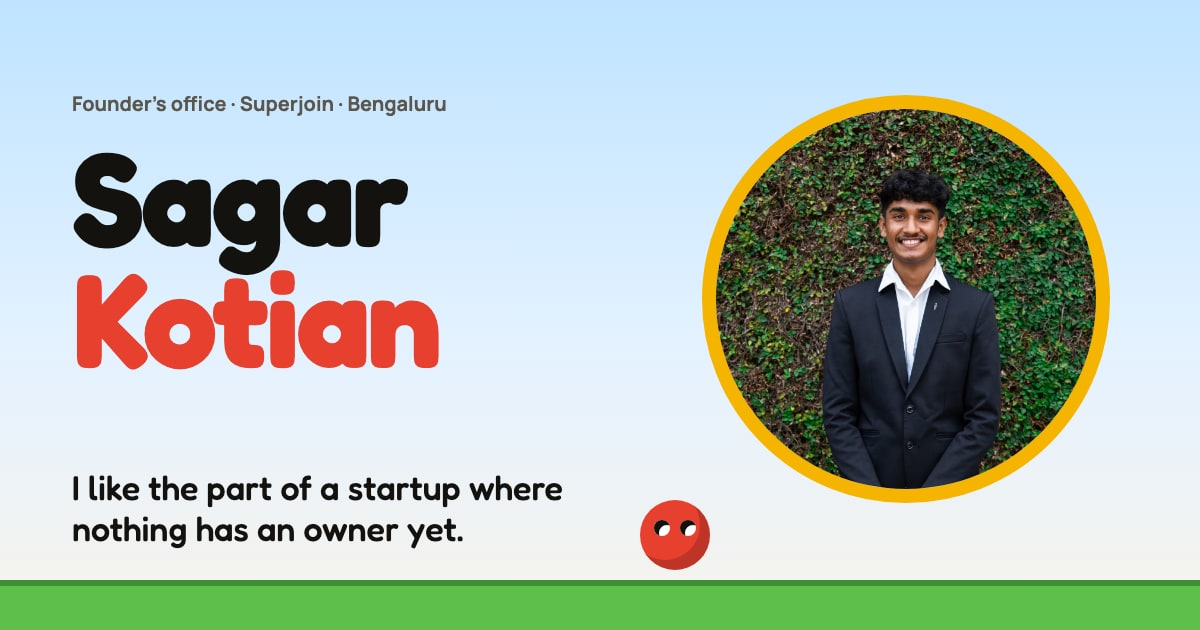
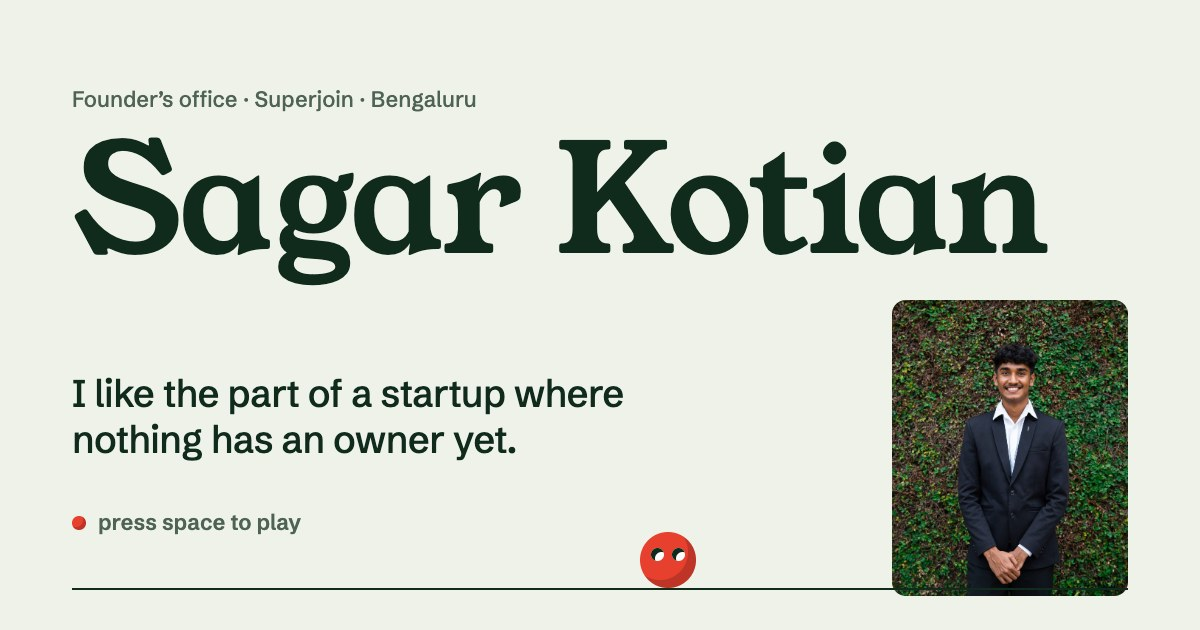
Brief update: Work so far, guestbook removed, the game moves to just before Say hi
The Play chapter gets the same rule and running head as the others, with the sky window as a
full-width figure sized to fit under the rule in one viewport, so the hero hint and the nav link
land on the whole window. Guestbook section, module, API, copy, styles and @upstash/redis are gone.

diff --git a/index.html b/index.html
@@ -50,7 +50,7 @@
       <span>Sagar</span>
     </a>
     <nav class="nav__links" aria-label="Sections">
-      <a href="#play">Play</a><a href="#work">Work</a><a href="#built">Built</a><a href="#about">About</a><a href="#guestbook">Guestbook</a>
+      <a href="#play">Play</a><a href="#work">Work</a><a href="#built">Built</a><a href="#about">About</a>
     </nav>
   </header>
 
@@ -78,48 +78,11 @@
       </div>
     </section>
 
-    <section class="game" id="play" aria-labelledby="game-title">
-      <div class="game__stage" id="game-stage" style="background:#5EC5F5">
-        <canvas class="game__canvas" id="game-canvas" tabindex="0" aria-label="Bounce, a ball platformer in a sky forest. Arrow keys to roll, space to jump."></canvas>
-        <div class="game__hud" id="hud" aria-live="off">
-          <span class="hud__eggs"><svg viewBox="0 0 24 30" aria-hidden="true"><path d="M12 2c5 0 9.5 8.5 9.5 15.5S17.5 28 12 28 2.5 24.5 2.5 17.5 7 2 12 2z" fill="#F6C15A" stroke="#8A5A2B" stroke-width="2"/><path d="M14 6c4 3 6 9 5.5 14-1 5-4 7-7 7 5-2 6-8 5-13-1-4-2-6-3.5-8z" fill="#DE9A3C"/><ellipse cx="8.5" cy="10" rx="2.2" ry="3.5" transform="rotate(-20 8.5 10)" fill="#FDEBB9"/></svg><b id="hud-eggs">0/0</b></span>
-          <span class="hud__time"><b id="hud-time">0:00</b><svg class="hud__clock" viewBox="0 0 24 24" aria-hidden="true"><circle cx="12" cy="12" r="10" fill="#fff" stroke="#102A1B" stroke-width="2"/><path d="M12 6v6l4 2" fill="none" stroke="#102A1B" stroke-width="2.2" stroke-linecap="round"/></svg></span>
-        </div>
-        <div class="game__touch" id="game-touch" aria-hidden="true">
-          <div class="touch__pad">
-            <button type="button" data-key="left" aria-label="Roll left"><svg viewBox="0 0 20 20" aria-hidden="true"><path d="M14 3L5 10l9 7z" fill="currentColor"/></svg></button>
-            <button type="button" data-key="right" aria-label="Roll right"><svg viewBox="0 0 20 20" aria-hidden="true"><path d="M6 3l9 7-9 7z" fill="currentColor"/></svg></button>
-          </div>
-          <button type="button" class="touch__jump" data-key="jump" aria-label="Jump"><i></i></button>
-        </div>
-        <div class="game__overlay" id="game-start">
-          <div class="plate">
-            <p class="chapter__head">Play</p>
-            <h2 class="game__title" id="game-title"></h2>
-            <p class="game__intro" id="game-intro"></p>
-            <button class="key key--ball key--big" id="game-play" type="button" data-magnetic data-cursor="play">Start</button>
-            <p class="game__controls" id="game-controls"></p>
-          </div>
-        </div>
-        <div class="game__overlay" id="game-end" hidden>
-          <div class="plate">
-            <p class="chapter__head" id="game-end-label"></p>
-            <h2 class="game__title game__title--sm" id="game-end-title"></h2>
-            <p class="game__intro" id="game-end-line"></p>
-            <div class="game__actions">
-              <button class="key key--ball" id="game-again" type="button" data-magnetic data-cursor="play">Play again</button>
-            </div>
-          </div>
-        </div>
-        <button class="game__leave" id="game-leave" type="button" hidden aria-label="Leave the game (Esc)"><svg viewBox="0 0 24 24" aria-hidden="true"><path d="M6 6l12 12M18 6L6 18" fill="none" stroke="currentColor" stroke-width="3" stroke-linecap="round"/></svg></button>
-      </div>
-    </section>
-
     <section class="chapter work" id="work" aria-labelledby="work-h">
       <div class="wrap chapter__grid">
         <p class="chapter__head">Work</p>
         <div class="chapter__body">
-          <h2 class="h2" id="work-h">Four startups,<br>one degree.</h2>
+          <h2 class="h2" id="work-h">Work so far.</h2>
           <div class="levelmap" id="levelmap">
             <svg class="levelmap__svg" viewBox="0 0 1200 260" preserveAspectRatio="none" aria-hidden="true">
               <path class="levelmap__hills" d="M0,260 L0,200 C120,120 220,120 340,200 C440,270 560,270 660,190 C760,110 860,110 960,190 C1060,255 1140,255 1200,215 L1200,260 Z"/>
@@ -165,27 +128,42 @@
       </dialog>
     </section>
 
-    <section class="chapter guestbook" id="guestbook" aria-labelledby="guestbook-h">
+    <section class="chapter game" id="play" aria-labelledby="game-title">
       <div class="wrap chapter__grid">
-        <p class="chapter__head">Guestbook</p>
-        <div class="chapter__body">
-          <div class="book">
-            <div class="book__write">
-              <h2 class="book__title" id="guestbook-h">Guestbook</h2>
-              <p class="book__lead" id="guestbook-lead"></p>
-              <form class="chat" id="note-form" autocomplete="off" novalidate>
-                <textarea class="chat__input" id="note-text" name="text" rows="1" maxlength="280" required aria-label="Your note"></textarea>
-                <input class="note-form__hp" name="website" type="text" tabindex="-1" autocomplete="off" aria-hidden="true" />
-                <button class="chat__send" id="note-submit" type="submit" aria-label="Post your note"><svg viewBox="0 0 24 24" aria-hidden="true"><path d="M4 12h13M12 5l7 7-7 7" fill="none" stroke="currentColor" stroke-width="3" stroke-linecap="round" stroke-linejoin="round"/></svg></button>
-              </form>
-              <p class="book__foot">
-                <span class="book__eggs"><svg viewBox="0 0 24 30" aria-hidden="true"><path d="M12 2c5 0 9.5 8.5 9.5 15.5S17.5 28 12 28 2.5 24.5 2.5 17.5 7 2 12 2z" fill="#F6C15A" stroke="#8A5A2B" stroke-width="2"/><ellipse cx="8.5" cy="10" rx="2.2" ry="3.5" transform="rotate(-20 8.5 10)" fill="#FDEBB9"/></svg><span id="note-count"></span></span>
-                <span class="book__status" id="note-status" role="status" aria-live="polite"></span>
-                <span class="book__chars" id="note-count-chars" aria-hidden="true">0/280</span>
-              </p>
-            </div>
-            <ol class="entries" id="notes" data-lenis-prevent tabindex="0" aria-label="Notes"></ol>
+        <p class="chapter__head">Play</p>
+        <div class="game__stage" id="game-stage" style="background:#5EC5F5">
+          <canvas class="game__canvas" id="game-canvas" tabindex="0" aria-label="Bounce, a ball platformer in a sky forest. Arrow keys to roll, space to jump."></canvas>
+          <div class="game__hud" id="hud" aria-live="off">
+            <span class="hud__eggs"><svg viewBox="0 0 24 30" aria-hidden="true"><path d="M12 2c5 0 9.5 8.5 9.5 15.5S17.5 28 12 28 2.5 24.5 2.5 17.5 7 2 12 2z" fill="#F6C15A" stroke="#8A5A2B" stroke-width="2"/><path d="M14 6c4 3 6 9 5.5 14-1 5-4 7-7 7 5-2 6-8 5-13-1-4-2-6-3.5-8z" fill="#DE9A3C"/><ellipse cx="8.5" cy="10" rx="2.2" ry="3.5" transform="rotate(-20 8.5 10)" fill="#FDEBB9"/></svg><b id="hud-eggs">0/0</b></span>
+            <span class="hud__time"><b id="hud-time">0:00</b><svg class="hud__clock" viewBox="0 0 24 24" aria-hidden="true"><circle cx="12" cy="12" r="10" fill="#fff" stroke="#102A1B" stroke-width="2"/><path d="M12 6v6l4 2" fill="none" stroke="#102A1B" stroke-width="2.2" stroke-linecap="round"/></svg></span>
           </div>
+          <div class="game__touch" id="game-touch" aria-hidden="true">
+            <div class="touch__pad">
+              <button type="button" data-key="left" aria-label="Roll left"><svg viewBox="0 0 20 20" aria-hidden="true"><path d="M14 3L5 10l9 7z" fill="currentColor"/></svg></button>
+              <button type="button" data-key="right" aria-label="Roll right"><svg viewBox="0 0 20 20" aria-hidden="true"><path d="M6 3l9 7-9 7z" fill="currentColor"/></svg></button>
+            </div>
+            <button type="button" class="touch__jump" data-key="jump" aria-label="Jump"><i></i></button>
+          </div>
+          <div class="game__overlay" id="game-start">
+            <div class="plate">
+              <p class="chapter__head">Play</p>
+              <h2 class="game__title" id="game-title"></h2>
+              <p class="game__intro" id="game-intro"></p>
+              <button class="key key--ball key--big" id="game-play" type="button" data-magnetic data-cursor="play">Start</button>
+              <p class="game__controls" id="game-controls"></p>
+            </div>
+          </div>
+          <div class="game__overlay" id="game-end" hidden>
+            <div class="plate">
+              <p class="chapter__head" id="game-end-label"></p>
+              <h2 class="game__title game__title--sm" id="game-end-title"></h2>
+              <p class="game__intro" id="game-end-line"></p>
+              <div class="game__actions">
+                <button class="key key--ball" id="game-again" type="button" data-magnetic data-cursor="play">Play again</button>
+              </div>
+            </div>
+          </div>
+          <button class="game__leave" id="game-leave" type="button" hidden aria-label="Leave the game (Esc)"><svg viewBox="0 0 24 24" aria-hidden="true"><path d="M6 6l12 12M18 6L6 18" fill="none" stroke="currentColor" stroke-width="3" stroke-linecap="round"/></svg></button>
         </div>
       </div>
     </section>

diff --git a/src/styles/sections.css b/src/styles/sections.css
@@ -1,8 +1,9 @@
-/* ---------- play: the sky window ---------- */
-.game { --game-pad: clamp(20px, 3vw, 40px); padding-block: var(--game-pad); }
+/* ---------- play: the sky window, near the end of the page ---------- */
+.game { --game-top: clamp(80px, 6vw, 96px); }
+.game .chapter__head { position: static; }
 .game__stage {
-  position: relative; width: min(100% - 2 * var(--gutter), var(--w-max)); margin-inline: auto;
-  height: calc(100svh - 2 * var(--game-pad)); min-height: 520px; max-height: 900px; overflow: hidden; border-radius: var(--r-l); background: #5EC5F5;
+  position: relative; grid-column: 1 / -1; width: 100%;
+  height: calc(100svh - var(--game-top)); min-height: 520px; max-height: 900px; overflow: hidden; border-radius: var(--r-l); background: #5EC5F5;
 }
 .game__stage::after { content: ''; position: absolute; inset: 0; border-radius: inherit; box-shadow: inset 0 0 0 2px var(--forest); pointer-events: none; z-index: 5; }
 .game__canvas { position: absolute; inset: 0; width: 100%; height: 100%; touch-action: none; outline: none; }
@@ -128,38 +129,12 @@ html[data-motion="reduced"] .mark--swipe { background-size: 100% 100%; transitio
 .lightbox__cap { font-style: italic; text-align: center; flex: 1; color: var(--forest); }
 .lightbox__nav { width: 40px; height: 40px; border-radius: 50%; background: var(--forest); color: var(--leaf); font-size: 26px; line-height: 1; display: grid; place-items: center; flex: none; }
 .lightbox__nav:hover { background: var(--ball); color: #fff; }
-.lightbox__close { position: absolute; top: -14px; right: -14px; width: 36px; height: 36px; border-radius: 50%; background: var(--ball); color: #fff; font-size: 22px; display: grid; place-items: center; box-shadow: 0 3px 0 0 var(--ball-2); }
+.lightbox__close { position: absolute; top: 22px; right: 22px; width: 36px; height: 36px; border-radius: 50%; background: var(--ball); color: #fff; font-size: 22px; display: grid; place-items: center; box-shadow: 0 3px 0 0 var(--ball-2); }
 @media (max-width: 899px) {
   .about__grid { grid-template-columns: 1fr; }
   .wall { grid-template-columns: 1fr 1fr; gap: 18px 12px; }
   .print--wide { grid-column: 1 / -1; }
 }
-
-/* ---------- guestbook: a white page on the sheet ---------- */
-.book { margin-top: clamp(24px, 3vw, 40px); background: var(--paper); border: 2px solid var(--forest); border-radius: var(--r-l); padding: clamp(20px, 3.5vw, 40px); display: grid; grid-template-columns: minmax(0, 0.9fr) minmax(0, 1.1fr); gap: clamp(24px, 4vw, 56px); box-shadow: 8px 8px 0 0 var(--leaf-2); }
-.book__title { font-family: var(--font-display); font-weight: 400; font-size: clamp(2rem, 1.6rem + 2vw, 3.4rem); line-height: 0.98; }
-.book__lead { font-style: italic; color: var(--moss); margin-top: 10px; font-size: var(--step-1); }
-.entries { max-height: 400px; overflow: auto; scrollbar-width: thin; scrollbar-color: var(--line) transparent; padding-right: 8px; border-top: 2px solid var(--forest); }
-.entry { padding: 13px 0 14px; border-bottom: 1px solid var(--line); }
-.entry__meta { display: flex; align-items: baseline; gap: 10px; font-size: var(--step--1); color: var(--moss); font-weight: 600; }
-.entry__n { color: var(--ball-2); font-weight: 800; }
-.entry__text { margin-top: 3px; overflow-wrap: anywhere; }
-.entry--empty { color: var(--moss); font-style: italic; padding: 24px 0; }
-.chat { display: flex; align-items: flex-end; gap: 10px; margin-top: 22px; }
-.chat__input { flex: 1; display: block; font: inherit; font-size: var(--step-0); line-height: 1.4; color: var(--forest); background: var(--leaf); border: 2px solid var(--forest); border-radius: 24px; padding: 11px 18px; min-height: 48px; resize: none; overflow: hidden; }
-.chat__input::placeholder { color: var(--moss); }
-.chat__input:focus { outline: none; box-shadow: 0 0 0 4px rgba(245, 180, 0, 0.45); }
-.chat__send { width: 48px; height: 48px; flex: none; border-radius: 50%; background: var(--ball); color: #fff; display: grid; place-items: center; box-shadow: 0 4px 0 0 var(--ball-2); transition: transform 0.15s, box-shadow 0.15s; }
-.chat__send:hover { background: #F04A38; }
-.chat__send:active { transform: translateY(3px); box-shadow: 0 1px 0 0 var(--ball-2); }
-.chat__send svg { width: 20px; height: 20px; }
-.note-form__hp { position: absolute; left: -9999px; width: 1px; height: 1px; opacity: 0; }
-.book__foot { display: flex; align-items: center; gap: 12px; margin-top: 12px; font-size: var(--step--1); color: var(--moss); font-weight: 600; }
-.book__eggs { display: inline-flex; align-items: center; gap: 7px; }
-.book__eggs svg { width: 15px; height: 19px; }
-.book__status { flex: 1; color: var(--ball-2); }
-.book__chars { font-variant-numeric: tabular-nums; }
-@media (max-width: 899px) { .book { grid-template-columns: 1fr; box-shadow: 6px 6px 0 0 var(--leaf-2); } .entries { max-height: 320px; } .book__foot { flex-wrap: wrap; } }
 
 /* ---------- say hi: the forest floor ---------- */
 .sayhi { background: var(--deep); color: var(--on-deep); padding-block: var(--section-y) 0; }

diff --git a/og.html b/og.html
@@ -1,21 +1,23 @@
 <!doctype html><html><head><meta charset="utf-8"><link rel="stylesheet" href="/src/styles/tokens.css"><link rel="stylesheet" href="/src/styles/fonts.css">
 <style>
-html,body{margin:0;width:1200px;height:630px;overflow:hidden;font-family:var(--font-body);color:#14120F}
-.card{position:relative;width:1200px;height:630px;padding:70px 72px;box-sizing:border-box;background:linear-gradient(180deg,#BFE3FF 0%,#E4F2FF 55%,#F7F3EC 100%)}
-.meta{font-weight:700;font-size:20px;color:#5C574E}
-.name{margin-top:18px;font-family:var(--font-display);font-size:132px;line-height:.92;letter-spacing:-.02em;font-weight:700}
-.name b{display:block;font-weight:700;color:#E8402F}
-.tag{margin-top:30px;font-family:var(--font-display);font-weight:500;font-size:34px;line-height:1.2;max-width:520px}
-.hoop{position:absolute;right:90px;top:95px;width:380px;height:380px;border-radius:50%;overflow:hidden;border:14px solid #F5B400;box-shadow:inset 0 0 0 6px #fff,inset 0 -10px 0 #C98F00;background:#EFE9DF}
-.hoop img{width:100%;height:100%;object-fit:cover;object-position:50% 10%}
-.ball{position:absolute;left:640px;bottom:60px;width:70px;height:70px;border-radius:50%;background:#E8402F;box-shadow:inset -10px -10px 0 rgba(0,0,0,.18)}
-.ball i{position:absolute;top:20px;width:16px;height:16px;border-radius:50%;background:#fff;box-shadow:inset 5px 5px 0 #14120F}
-.ball i:first-child{left:14px}.ball i:last-child{right:14px}
-.hill{position:absolute;left:0;right:0;bottom:0;height:44px;background:#5FBF4B;border-top:6px solid #3E8F33}
+html,body{margin:0;width:1200px;height:630px;overflow:hidden;font-family:var(--font-text);color:var(--forest);background:var(--leaf)}
+.card{position:relative;width:1200px;height:630px;padding:64px 72px;box-sizing:border-box}
+.meta{font-weight:500;font-size:22px;color:var(--moss)}
+.name{margin-top:14px;font-family:var(--font-display);font-weight:400;font-size:150px;line-height:.9;letter-spacing:-.015em;white-space:nowrap}
+.tag{margin-top:44px;font-weight:500;font-size:38px;line-height:1.22;letter-spacing:-.015em;max-width:560px}
+.hint{position:absolute;left:72px;bottom:72px;display:flex;align-items:center;gap:12px;font-weight:600;font-size:22px;color:var(--moss)}
+.hint i{width:14px;height:14px;border-radius:50%;background:var(--ball);box-shadow:inset -3px -3px 0 rgba(0,0,0,.18)}
+.portrait{position:absolute;right:72px;top:300px;width:236px;height:296px;border-radius:14px;overflow:hidden;background:var(--leaf-2)}
+.portrait img{width:100%;height:100%;object-fit:cover;object-position:50% 12%}
+.rule{position:absolute;left:72px;right:72px;bottom:40px;height:2px;background:var(--forest)}
+.ball{position:absolute;left:640px;bottom:42px;width:56px;height:56px;border-radius:50%;background:var(--ball);box-shadow:inset -8px -8px 0 rgba(0,0,0,.18)}
+.ball i{position:absolute;top:16px;width:13px;height:13px;border-radius:50%;background:#fff;box-shadow:inset 4px 4px 0 var(--forest)}
+.ball i:first-child{left:11px}.ball i:last-child{right:11px}
 </style></head><body><div class="card">
 <p class="meta">Founder’s office · Superjoin · Bengaluru</p>
-<h1 class="name">Sagar<b>Kotian</b></h1>
+<h1 class="name">Sagar Kotian</h1>
 <p class="tag">I like the part of a startup where nothing has an owner yet.</p>
-<div class="hoop"><img src="/img/hero.jpg"></div>
-<div class="hill"></div><div class="ball"><i></i><i></i></div>
+<p class="hint"><i></i>press space to play</p>
+<div class="portrait"><img src="/img/hero.jpg"></div>
+<div class="rule"></div><div class="ball"><i></i><i></i></div>
 </div></body></html>

diff --git a/src/styles/hero.css b/src/styles/hero.css
@@ -28,9 +28,9 @@ html.is-playing .nav { opacity: 0; pointer-events: none; }
 .hero__name { font-family: var(--font-display); font-weight: 400; font-size: var(--step-name); line-height: 0.9; letter-spacing: -0.015em; display: flex; flex-wrap: wrap; column-gap: 0.22em; }
 .hero__line { display: block; overflow: hidden; padding-bottom: 0.1em; margin-bottom: -0.1em; }
 .hero__word { display: block; will-change: transform; }
-.hero__row { display: grid; grid-template-columns: minmax(0, 1fr) clamp(220px, 24vw, 320px); column-gap: clamp(28px, 5vw, 80px); align-items: stretch; margin-top: clamp(28px, 4vw, 48px); }
-.hero__text { display: flex; flex-direction: column; justify-content: space-between; align-items: flex-start; padding-top: 0.2em; }
-.hero__tag { font-size: var(--step-2); font-weight: 500; line-height: 1.25; letter-spacing: -0.01em; max-width: 22ch; }
+.hero__row { display: grid; grid-template-columns: minmax(0, 1fr) clamp(220px, 22vw, 300px); column-gap: clamp(28px, 5vw, 80px); align-items: center; margin-top: clamp(28px, 4vw, 48px); }
+.hero__text { display: flex; flex-direction: column; align-items: flex-start; }
+.hero__tag { font-size: clamp(1.5rem, 1.1rem + 1.5vw, 2.4rem); font-weight: 500; line-height: 1.22; letter-spacing: -0.015em; max-width: 20ch; }
 .hero__hint { display: inline-flex; align-items: center; gap: 10px; margin-top: clamp(20px, 3vw, 34px); font-weight: 600; font-size: var(--step--1); color: var(--moss); line-height: 1.2; }
 .hero__hint::before { content: ''; width: 12px; height: 12px; border-radius: 50%; background: var(--ball); box-shadow: inset -2px -2px 0 rgba(0, 0, 0, 0.18); animation: hop 1.4s var(--ease) infinite; }
 @keyframes hop { 0%, 100% { transform: translateY(0); } 40% { transform: translateY(-5px); } }

diff --git a/src/main.ts b/src/main.ts
@@ -6,7 +6,6 @@ import { initReveals } from './modules/reveal';
 import { initProjects } from './modules/projects';
 import { initLevelMap } from './modules/levelmap';
 import { initAbout } from './modules/about';
-import { initGuestbook } from './modules/guestbook';
 import { mountGame } from './game';
 import { richHero } from './modules/prefs';
 
@@ -28,7 +27,7 @@ window.addEventListener('scroll', onScroll, { passive: true }); onScroll();
 document.fonts.ready.then(() => runPreloader().then(() => heroIntro?.()));
 
 const later = () => {
-  initReveals(); initProjects(); initLevelMap(); initAbout(); initGuestbook();
+  initReveals(); initProjects(); initLevelMap(); initAbout();
   if (richHero) { import('./modules/cursor').then((m) => m.initCursor()); import('./modules/magnetic').then((m) => m.initMagnetic()); }
 };
 window.addEventListener('load', () => ('requestIdleCallback' in window ? requestIdleCallback(later, { timeout: 1500 }) : setTimeout(later, 300)), { once: true });

diff --git a/src/modules/render.ts b/src/modules/render.ts
@@ -1,4 +1,4 @@
-import { hero, stops, projects, about, guestbook, links } from '../content';
+import { hero, stops, projects, about, links } from '../content';
 import { images, type ImageKey } from '../generated/images';
 import { q } from './prefs';
 
@@ -50,8 +50,6 @@ export function renderAll() {
       <button class="print__open" type="button" aria-label="Open photo: ${esc(ph.caption)}">${picture(ph.key, { alt: ph.alt, sizes: ph.wide ? '(max-width: 899px) 90vw, 480px' : '(max-width: 899px) 45vw, 240px' })}</button>
       <figcaption class="print__cap">${esc(ph.caption)}</figcaption>
     </figure>`).join('');
-  q('#guestbook-lead').textContent = guestbook.lead;
-  q<HTMLTextAreaElement>('#note-text').placeholder = guestbook.textPlaceholder;
 
   q('#sayhi-links').innerHTML = `
     <li><a class="sayhi__row" href="${links.whatsapp}" target="_blank" rel="noopener" data-cursor="open"><span>WhatsApp</span><small>${esc(links.whatsappLabel)}</small></a></li>

diff --git a/src/content.ts b/src/content.ts
@@ -39,14 +39,6 @@ export const about = {
     { id: 'lighthouse', key: 'lighthouse', alt: 'Sagar in a white shirt beside a striped lighthouse, arm raised as if resting it on the top.', caption: 'Almost there.' },
   ] as Photo[],
 };
-export const guestbook = {
-  lead: 'leave a note, say hi, share a thought :)',
-  textPlaceholder: 'write something…',
-  button: 'Post',
-  count: (n: number) => `${n} note${n === 1 ? '' : 's'}`,
-  empty: 'Nothing here yet. Be the first.',
-  seed: [{ id: 'seed-1', n: 1, text: 'First note is mine. Say hi, tell me what you are building, or just leave a coffee recommendation.', at: Date.UTC(2026, 8, 13, 9, 30) }],
-};
 
 export const links = {
   whatsapp: 'https://wa.me/919321747802?text=Hi%20Sagar',

diff --git a/src/styles/tokens.css b/src/styles/tokens.css
@@ -3,7 +3,7 @@
   --leaf: #EEF2E8;      /* the page ground */
   --leaf-2: #DFE7D6;    /* quiet surfaces: map hills, pills, key caps */
   --line: #C3CEBB;      /* rules and borders */
-  --paper: #FFFFFF;     /* inputs and the guestbook page */
+  --paper: #FFFFFF;     /* the lightbox plate */
   --forest: #102A1B;    /* ink */
   --moss: #4E6353;      /* secondary text */
   --ball: #E8402F;      /* the accent, always as an object */

diff --git a/DESIGN.md b/DESIGN.md
@@ -2,7 +2,7 @@
 
 ## Concept
 
-The page is a single quiet sheet of pale leaf green. The game canvas is the one bright window cut into it, near the top, and the page ends on the dark forest floor where the closing "Say hi" lives. Sky above, ground below, and the red ball is the only thing that moves between them: it idles on the hero's baseline, drops into the sky window, rolls along the Work map as you scroll, and is the cursor on desktop. Everything around the canvas is disciplined typography on one ground, so the game and the person carry the play instead of hills, polaroids and wood grain.
+The page is a single quiet sheet of pale leaf green. Near the end, the game canvas is the one bright window cut into it, and the page lands on the dark forest floor right after, where the closing "Say hi" lives. The red ball is the thread that runs down the sheet: it idles on the hero's baseline, rolls along the Work map as you scroll, is the cursor on desktop, and waits in the sky window at the bottom, one press of space away. Everything around the canvas is disciplined typography on one ground, so the game and the person carry the play instead of hills, polaroids and wood grain.
 
 The palette is taken from the game's own art and toned for reading: the level's deep tree green becomes the ink, its grass becomes a pale tint for the ground, its ball is the accent, its eggs are the highlight. The saturated sky appears only inside the canvas, so the window reads as a window.
 
@@ -13,7 +13,7 @@ The palette is taken from the game's own art and toned for reading: the level's 
 | leaf | #EEF2E8 | the page ground, everywhere |
 | leaf-2 | #DFE7D6 | quiet surfaces: map hills, pills, key caps, badges |
 | line | #C3CEBB | rules and borders |
-| paper | #FFFFFF | inputs and the guestbook page |
+| paper | #FFFFFF | the lightbox plate |
 | forest | #102A1B | ink, headings, rules |
 | moss | #4E6353 | secondary text: meta, dates, captions |
 | ball | #E8402F | the accent, always as an object: dots, the ball, the send key, the play key |
@@ -25,8 +25,8 @@ The palette is taken from the game's own art and toned for reading: the level's 
 
 ## Type
 
-- Display: Young Serif (single weight, chunky, low contrast). The name, the section headings, "Bounce.", "Guestbook", "Say hi.".
-- Text: Schibsted Grotesk variable 400 to 900 with true italics. Everything else. Italic for captions and the small human asides (photo captions, the guestbook lead, "Coffee in Bengaluru: yes.").
+- Display: Young Serif (single weight, chunky, low contrast). The name, the section headings, "Bounce.", "Say hi.".
+- Text: Schibsted Grotesk variable 400 to 900 with true italics. Everything else. Italic for captions and the small human asides (photo captions, "Coffee in Bengaluru: yes.").
 - Both self-hosted as latin woff2 subsets under public/fonts, preloaded, with metric-matched Arial fallbacks so nothing shifts.
 
 Scale (1.25 modular from 17px):
@@ -42,25 +42,29 @@ Line length: body 60ch max. Story lines 26ch. Left aligned throughout.
 
 ## Layout
 
-One container, max 1200px, gutter clamp(20px, 5vw, 64px). From 1000px up, every content section is a two-column grid: a 150px margin column on the left holding the section's running head (sticky while the section scrolls), and the content column on the right. Below 1000px the running head sits above the content as a small line. Sections are separated by a 2px forest rule that starts at the margin, not by colour blocks.
+Order: Hero, Work, Built, About, Play, Say hi. One container, max 1200px, gutter clamp(20px, 5vw, 64px). From 1000px up, every content section is a two-column grid: a 150px margin column on the left holding the section's running head (sticky while the section scrolls), and the content column on the right. Below 1000px the running head sits above the content as a small line. Sections are separated by a 2px forest rule that starts at the margin, not by colour blocks.
 
-- Header: fixed, thin. A small ball face and "Sagar" on the left, five links on the right. Transparent until you scroll, then a translucent leaf backdrop.
-- Hero: the meta line, then the name as a one-line masthead across the full container, then a row with the tagline and "press space to play" on the left and the portrait (4:5, rounded) on the right. The ball idles along the hero's bottom rule. On phones the portrait is square, full width, under the name.
-- Play: the canvas fills the viewport height and the full width. The start and win overlays are a leaf-coloured plate in the bottom-left corner, in the page's type, so the overlay belongs to the page and the level stays visible behind. The HUD is two small leaf pills (eggs top-left, time top-right). The leave key is a small pill under the time. Phone touch controls are three keypad caps: left and right arrows bottom-left, a round key with the red ball bottom-right.
-- Work: heading, then the hill map in leaf-2 with the ball rolling the forest-ink path as you scroll, then four columns under a 2px rule each: logo and org name (a link, underlined on hover), role, dates, one line.
+- Header: fixed, thin. A small ball face and "Sagar" on the left, four links on the right. Transparent until you scroll, then a translucent leaf backdrop.
+- Hero: the meta line, then the name as a one-line masthead across the full container, then a row with the tagline and "press space to play" grouped on the left, centred against the portrait (300px, 4:5, rounded) on the right. The ball idles along the hero's bottom rule. On phones the name takes two lines and the portrait is square, full width, under the name.
+- Work: the heading "Work so far.", then the hill map in leaf-2 with the ball rolling the forest-ink path as you scroll, then four columns under a 2px rule each: logo and org name (a link, underlined on hover), role, dates, one line.
 - Built: heading, three columns: media box (rounded, thin border, badge as a leaf pill, play key as a red ball on the demos), bold title, line, an underlined Watch or Open link.
-- About: heading and the three story lines with the hand-drawn marks on the left, five prints on the right as a 3-column grid (the wide one spans two), italic captions under each. Lightbox is a white plate on a deep backdrop.
-- Guestbook: a white page with a forest border. On desktop it is two columns: the title, lead and the write box on the left; the numbered notes on the right in their own scrolling column (data-lenis-prevent). On phones they stack.
+- About: heading and the three story lines with the hand-drawn marks on the left, five prints on the right as a 3-column grid (the wide one spans two), italic captions under each. Lightbox is a white plate on a deep backdrop, the close key sits on the photo's corner.
+- Play: its own chapter after About, with the rule and the "Play" running head like the others, and the window as a full-width figure under them: the canvas at the container's width, rounded, with a 2px forest frame, sized to fit under the rule in one viewport so the hero's hint and the nav's Play link land on the whole window. The start and win overlays are a leaf-coloured plate in the window's corner, in the page's type, so the level stays visible behind. The HUD is two small leaf pills (eggs top-left, time top-right) that appear only while playing; the leave key is a small round key beside the time. Phone touch controls are three keypad caps: left and right arrows bottom-left, a round key with the red ball bottom-right. The way out is the forest floor: the deep Say hi block starts right after the chapter's bottom margin, so you play, then you say hi.
 - Say hi: the deep block. "Say hi." in leaf, then three big rows separated by hairlines (WhatsApp with the number, the email with copy, LinkedIn), then "Coffee in Bengaluru: yes." in italic. The footer lines sit inside the same block under a hairline.
 
 ## Motion
 
 - One page-load sequence: the ball drops on the preloader onto a forest line (three dots light gold on each bounce), the sheet wipes up, the name rises, the portrait settles, meta, tagline and hint fade in. Nothing else animates on entry.
+- "press space to play" (or the space key while the hero is on screen) scrolls the page down to the Play chapter in one second and starts the game when it arrives.
 - Scroll answers: the map ball rolls with the scroll and the path draws just ahead of it; the story marks draw themselves once when the story is in view.
 - Pointer answers: link underlines, the demo preview plays while the pointer rests on it, the play key grows, keys press down. No lift-on-hover cards.
 - Reduced motion: no preloader, no idle ball, no cursor, no smooth scroll, marks drawn, map ball parked at the start, everything visible.
 - The desktop cursor is the red ball with eyes; its label is a forest pill.
 
+## Share card
+
+og.html renders the same hero (masthead, tagline, portrait, the ball on the rule) at 1200x630; public/og.jpg is its screenshot.
+
 ## Rules kept
 
-No em dashes in visible text. Every word in content.ts and index.html as written. Say hi only at the end. No resume, no music, no stats. Game files untouched.
+No em dashes in visible text. Every word in content.ts and index.html as written, with Sagar's later changes: the Work heading is "Work so far." and the guestbook is gone (section, module, API, copy, styles and the Redis dependency). Say hi only at the end. No resume, no music, no stats. Game files untouched.
